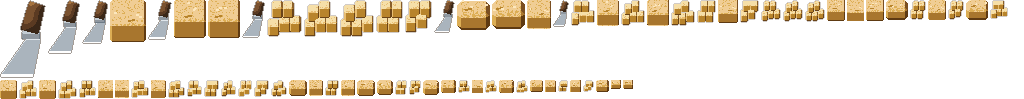
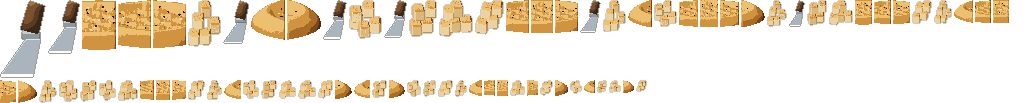
İskender pidesi: yığında ve tahtada aynı tırnaklı pide modeli
pide_hd.pide_mesh: oval, yassı pide; kabarık kenar, baklava biçimli tırnak
oyukları, çörek otu + susam; kesik dilimlerde ekmeğin içi. Tahtadaki 5 dilim
bu pidenin şeritleri; küpler üstü kabuk, yanları ekmek içi. Ekmek altlığındaki
pide yığını (tezgah2 ekmek_pide_arka) aynı modelden (eskisi bazlama gibiydi).

diff --git a/blender/models/pide_hd.py b/blender/models/pide_hd.py
@@ -49,35 +49,110 @@ def serit(q):
 
 
 def ekmek():
-    return I.cel("Pide", ["#5e3a12", "#7a4f22", "#a8762e", "#dcae55", "#f0cd94"], [0, .22, .5, .66, .88], noise=0.1, noise_scale=16)
+    return I.cel("Pide", ["#4e2c0c", "#7a4818", "#a86c26", "#d09440", "#ecc070"], [0, .2, .45, .66, .88], noise=0.1, noise_scale=16)
+
+
+def ekmek_ic():
+    """Pidenin kesilen yuzu (yumusak ic)."""
+    return I.cel("PideIc", ["#b8905a", "#d8b67c", "#ecd2a0", "#f8e6c0"], [0, .3, .55, .85], noise=0.12, noise_scale=22)
+
+
+def _pide_h(x, y, cx, cy, rx, ry, kalin, desen):
+    """Tirnakli pide yuksekligi: kabarik kenar halkasi, ortada baklava bicimli
+    tirnak izleri (oluklar), kenarda yuvarlak dusus."""
+    r = math.sqrt(((x - cx) / rx) ** 2 + ((y - cy) / ry) ** 2)
+    taban = 0.8 + 0.35 * math.exp(-((r - 0.82) / 0.075) ** 2)
+    if r > 0.88:
+        taban *= math.sqrt(max(0.0, 1.0 - ((r - 0.88) / 0.12) ** 2))
+    oluk = 0.0
+    if desen and r < 0.7:
+        a = abs(math.sin((x * 0.55 + y * 0.8) * 0.9))
+        b = abs(math.sin((x * 0.55 - y * 0.8) * 0.9))
+        oluk = 0.45 * max(0.0, 1.0 - min(a, b) / 0.3) * min(1.0, (0.7 - r) / 0.08)
+    return kalin * max(0.0, taban - oluk)
+
+
+def pide_mesh(ad, cx, taban_gy, rx, ry, kalin, x_ara=None, desen=True, tohum=0.0, mat=None, mat_ic=None, tohumlar=True):
+    """BIRLESIK (4. tur, kullanici: "iskender pideden olur, pide modeli yap"):
+    oval, yassi tirnakli pide. Onu (en yakin kenar) derinlik 0'da, taban
+    ekranda taban_gy. x_ara=(L, R): yalniz o dilim; kesik yuzlerde ekmegin ici."""
+    M = mat or ekmek()
+    Mi = mat_ic or ekmek_ic()
+    cy = ry
+    z0 = -taban_gy
+    L_ = cx - rx if x_ara is None else max(cx - rx + 0.01, x_ara[0])
+    R_ = cx + rx if x_ara is None else min(cx + rx - 0.01, x_ara[1])
+    nx = max(4, int((R_ - L_) / 0.45))
+    ny = 26
+    bm = bmesh.new()
+    g = []
+    for i_ in range(nx + 1):
+        x = L_ + (R_ - L_) * i_ / nx
+        yy = ry * math.sqrt(max(0.0, 1.0 - ((x - cx) / rx) ** 2))
+        sira = []
+        for j_ in range(ny + 1):
+            y = cy - yy + 2 * yy * j_ / ny
+            sira.append(bm.verts.new((x, y, z0 + _pide_h(x, y, cx, cy, rx, ry, kalin, desen))))
+        g.append(sira)
+    for i_ in range(nx):
+        for j_ in range(ny):
+            bm.faces.new((g[i_][j_], g[i_ + 1][j_], g[i_ + 1][j_ + 1], g[i_][j_ + 1]))
+    kesik = []
+    if x_ara is not None:
+        for kenar, x in ((0, L_), (nx, R_)):
+            if abs(x - (cx - rx)) < 0.05 or abs(x - (cx + rx)) < 0.05:
+                continue
+            ust = g[kenar]
+            alt = [bm.verts.new((v.co.x, v.co.y, z0)) for v in ust]
+            for j_ in range(ny):
+                kesik.append(bm.faces.new((alt[j_], alt[j_ + 1], ust[j_ + 1], ust[j_])))
+    bmesh.ops.recalc_face_normals(bm, faces=bm.faces[:])
+    for f in kesik:
+        f.material_index = 1
+    ob = I.mesh_ob(ad, bm, M, smooth=True)
+    ob.data.materials.append(Mi)
+    for pol in ob.data.polygons:
+        if pol.normal.z < -0.1:
+            pol.flip()
+    if tohumlar:
+        # corek otu (siyah) ve susam (krem): ust yuzeyde, kabarik kenarin icinde
+        Mn = S.mat_duz("#1e1612")
+        Ms = S.mat_duz("#f4e2b8")
+        for q in range(int(rx * ry * 0.22)):
+            a = hash1(q * 3.7 + tohum) * math.tau
+            rr = 0.72 * math.sqrt(hash1(q * 7.1 + tohum))
+            x = cx + math.cos(a) * rx * rr
+            y = cy + math.sin(a) * ry * rr
+            if x_ara is not None and not (L_ + 0.3 < x < R_ - 0.3):
+                continue
+            z = z0 + _pide_h(x, y, cx, cy, rx, ry, kalin, desen)
+            e = I.elipsoid("tohum%d" % q, 0, 0, 0.42, 0.18, 0.26, 0.0, Mn if hash1(q * 1.9 + tohum) > 0.4 else Ms, seg=6, ring=4)
+            e.location = (x, y, z + 0.1)
+            e.rotation_euler = (0, 0, hash1(q * 5.5) * 3.0)
+    return ob
+
+
+PIDE_RX, PIDE_RY, PIDE_KALIN = 24.0, 10.5, 3.6
 
 
 def pide_serit(q):
     def fn():
-        taban = 6.0
-        s = serit(q)
-        sol = s["L"] + (1 if q == 0 else 0)
-        sag = s["R"] - (1 if q == PIDE_NEED else 0)
-        derin = (s["geri"] - s["h"]) / K
-        uc = q in (0, PIDE_NEED)
-        kutu(sol, sag, taban - s["h"], taban, 0.0, derin, ekmek(), bevel=1.1 if uc else 0.5)
-        # kazima cizgisi ve susam
-        Mc = S.mat_duz("#b8842c")
-        bx = s["L"] + 2 + math.floor(hash1(q * 5.3) * (s["R"] - s["L"] - 6) + 0.5)
-        T.ust_cizgi("kazi", bx, taban - s["h"] - 1.0, bx + 2.0, taban - s["h"] - 1.3, 0.5, ez(taban - s["h"], 0.0, K) + 0.05, Mc, K)
-        for k in range(3):
-            sx = s["L"] + 1.5 + hash1(q * 9.1 + k) * (s["R"] - s["L"] - 3)
-            sg = taban - s["h"] - 0.5 - hash1(q * 3.7 + k * 2.3) * (s["geri"] - s["h"] - 1)
-            e = I.elipsoid("susam", sx, sg, 0.5, 0.3, 0.3, 0.0, S.mat_duz("#fce7bd"), seg=6, ring=4)
-            e.location = (sx, (-(sg) - ez(taban - s["h"], 0.0, K)) / K + 0.0, ez(taban - s["h"], 0.0, K) + 0.15)
+        seg = PIDE_NEED + 1
+        L_ = -PIDE_RX + q * (PIDE_RX * 2 / seg)
+        R_ = -PIDE_RX + (q + 1) * (PIDE_RX * 2 / seg)
+        # dilimler arasinda ince bicak izi: kesik yuzler 0.15 iceride
+        pide_mesh("pide%d" % q, 0.0, 6.0, PIDE_RX, PIDE_RY, PIDE_KALIN,
+                  x_ara=(L_ + (0.12 if q > 0 else 0.0), R_ - (0.12 if q < PIDE_NEED else 0.0)))
     return fn
 
 
 def pide_kup(q):
+    """Kesilmis dilimin kupleri: ustu kabuk (pide rengi), yanlari ekmek ici."""
     def fn():
         taban = 6.0
         s = serit(q)
-        Mk = I.cel("Kup%d" % q, ["#6a4418", "#8a5f2a", "#b8842c", "#e8bd72", "#f6dfa8"], [0, .22, .5, .66, .88], noise=0.08, noise_scale=20)
+        Mk = ekmek()
+        Mi = ekmek_ic()
         for b in (1, 0):
             for a in range(3):
                 hs = hash1(q * 13.7 + a * 3.1 + b * 7.7)
@@ -85,7 +160,12 @@ def pide_kup(q):
                 if kx + 3 > s["R"]:
                     continue
                 y = taban - b * 4 - math.floor(hs * 1.4 + 0.5)
-                kutu(kx, kx + 3, y - 3, y, b * 2.0, b * 2.0 + 4.0, Mk, bevel=0.35)
+                ob = kutu(kx, kx + 3, y - 3, y, b * 2.0, b * 2.0 + 4.0, Mi, bevel=0.35)
+                ob.data.materials.append(Mk)
+                for pol in ob.data.polygons:
+                    if pol.normal.z > 0.6:
+                        pol.material_index = 1
+                ob.rotation_euler = (0, 0, (hs - 0.5) * 0.4)
     return fn
 
 

diff --git a/blender/models/tezgah2_hd.py b/blender/models/tezgah2_hd.py
@@ -713,18 +713,14 @@ def _lavas_yigin(cx, taban_gy, adet, rx, K):
 
 
 def _pide_yigin(cx, taban_gy, adet, rx, K):
-    Mp = cel("PideY", ["#7a4e20", "#a06a2e", "#d9a765", "#eec78c"], S4, noise=0.12, noise_scale=12)
+    """BIRLESIK (4. tur): ust uste tirnakli pideler (pide_hd.pide_mesh; eskiden
+    kubbeli diskler bazlama gibi duruyordu)."""
+    import pide_hd as PH
     Mg = px.flat_a("PideGolge", "#3a2210", 0.35)
-    I.yatay_elips("golge", cx + 1.0, taban_gy + 1.4, rx + 1.5, 0.1, Mg, K, ry_ekran=4.0)
+    I.yatay_elips("golge", cx + 1.0, taban_gy + 1.0, rx + 1.2, 0.1, Mg, K, ry_ekran=3.8)
     for i in range(adet):
-        I.yatay_elips("pide%d" % i, cx, taban_gy - i * 3.2, rx - i * 0.8, 2.2, Mp, K, ry_ekran=3.6, egim=0.18)
-    ust = taban_gy - (adet - 1) * 3.2
-    Mb = px.flat("PideSusam", "#8a5f31")
-    for q in range(7):
-        # ust pidenin ust yuzunde (merkez derinlik 0, yuzey z = -gy + kalinlik/2)
-        gy = ust - 0.6 + ((q * 3) % 5 - 2) * 0.45
-        e = I.elipsoid("susam", cx - 9 + q * 3, gy, 0.7, 0.4, 0.4, 0.0, Mb, seg=8, ring=4)
-        e.location = (cx - 9 + q * 3, 0.0, -gy + 1.1)
+        PH.pide_mesh("pide%d" % i, cx + (0.5 if i % 2 else -0.4), taban_gy - i * 2.3, rx - i * 0.6, 9.0 - i * 0.3, 2.5,
+                     desen=True, tohum=i * 11.0, tohumlar=(i == adet - 1))
 
 
 def ekmek_lavas_tek():
